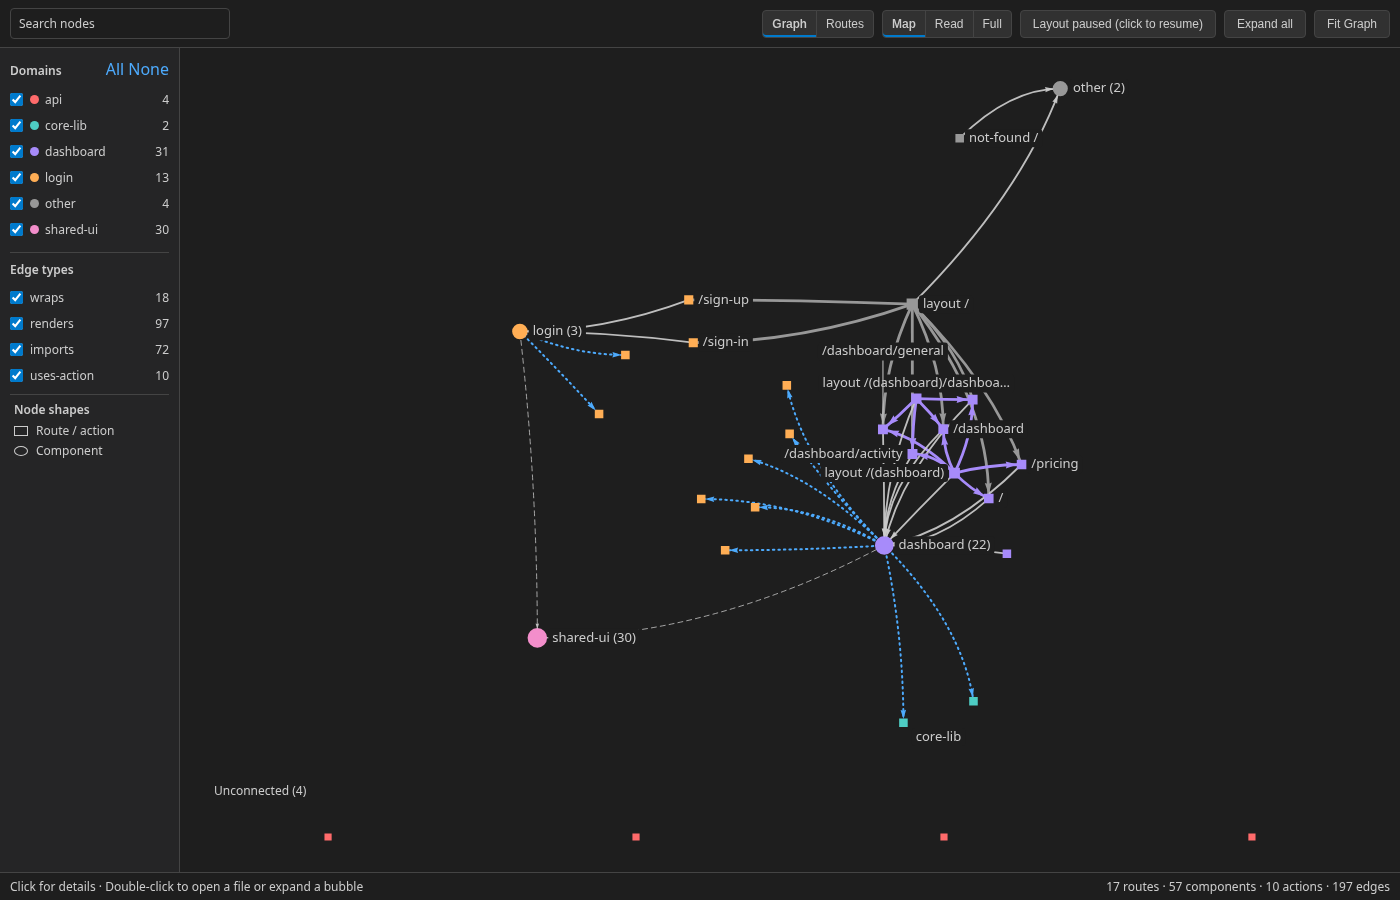
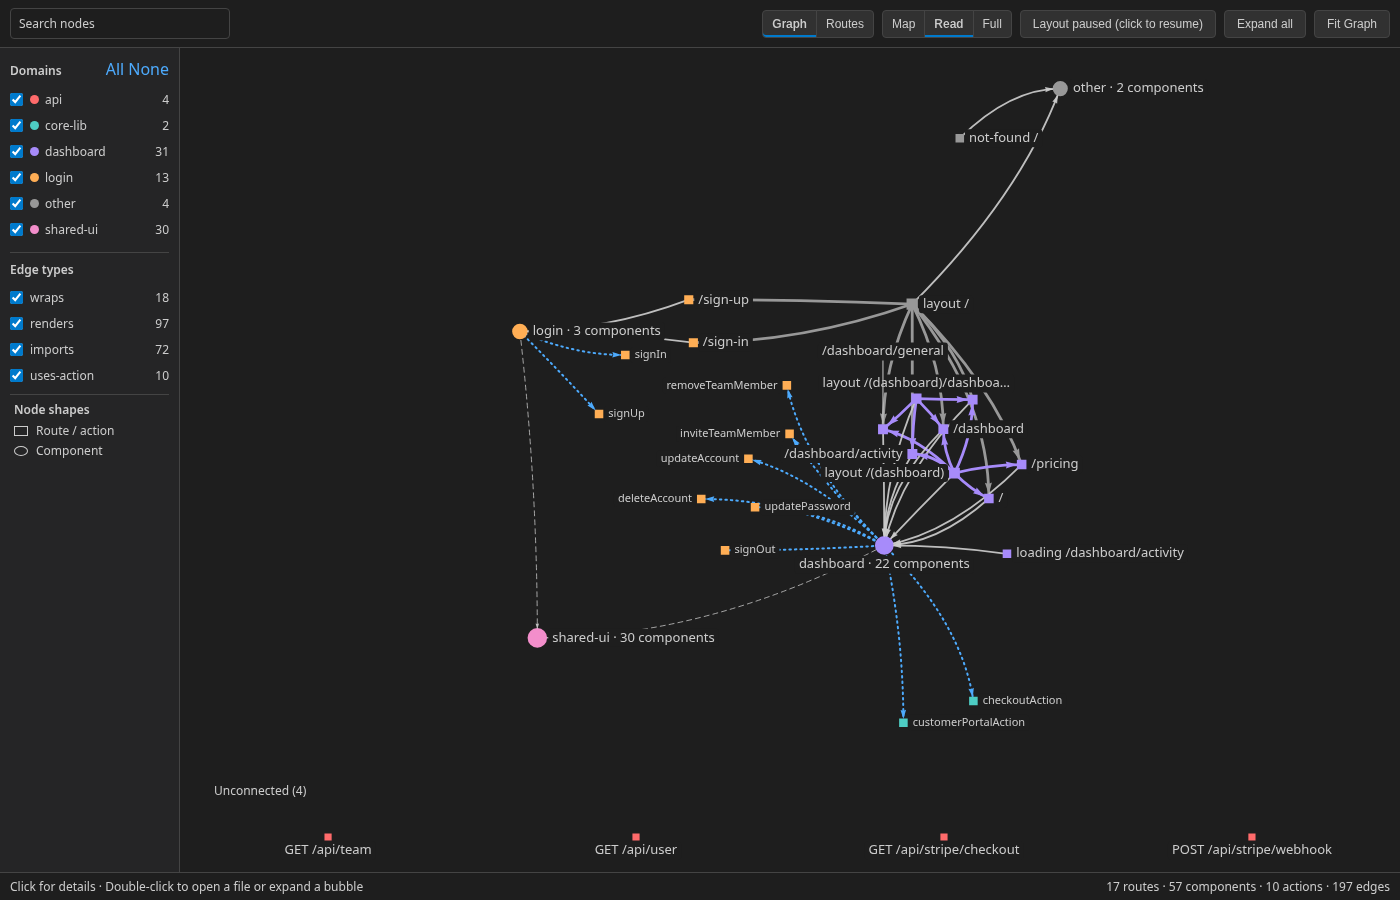
Refresh the SaaS graph and add a taxonomy Routes hero

diff --git a/README.md b/README.md
@@ -93,6 +93,8 @@ claude --plugin-dir "$NEORION_DIR/neorion"
 
 ## VS Code extension
 
+![Taxonomy in Routes view with the layouts that wrap /login highlighted](docs/graph-view/after-taxonomy-routes.png)
+
 ```sh
 cd extension
 npm ci
